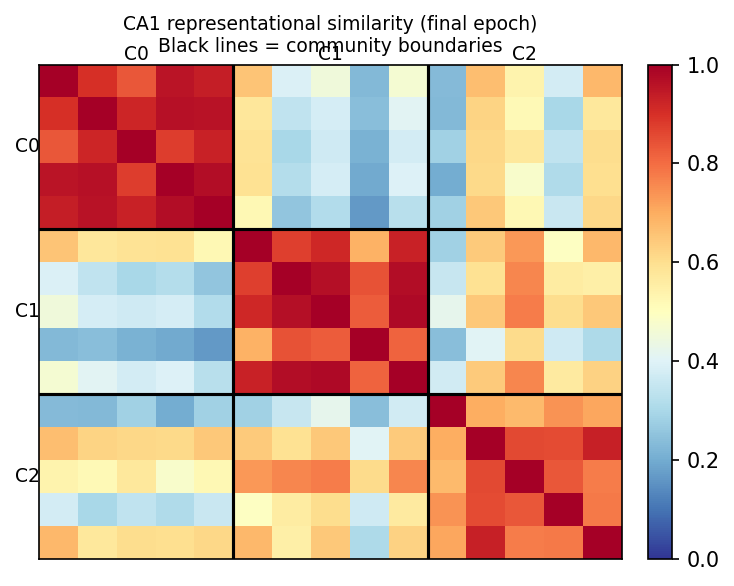
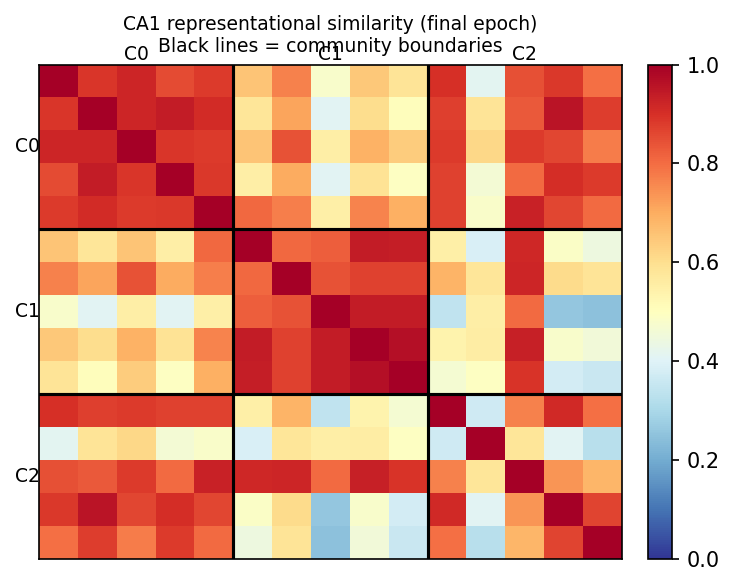
Fix L_ECin missing nxx1; clarify cell-phase comment
Apply F_nxx1 before kWTA in L_ECin.forward so that activity values
are bounded [0,1] consistent with all other settling layers.  Without
it, the big-loop back-projection (NET_SCALE=2.0) amplified active ECin
units to ~3.0, inflating W_ECin CHL updates ~3× and collapsing the
expected lr_TSP/lr_MSP = 8× ratio to ~2.7×.

Also rewrite cell-phase comment to clarify that cosine ≈ 0.25 at
initialisation is chance level, not a meaningful phase distinction.

diff --git a/src/layer.py b/src/layer.py
@@ -221,10 +221,13 @@ class L_ECin(nn.Module):
         else:
             net = clamp_pattern
 
-        # kWTA — absolute k; Schapiro (2017) §2.a.ii
+        # nxx1 then absolute kWTA — Schapiro (2017) §2.a.ii; O'Reilly & Munakata (2000)
+        # nxx1 bounds activity to [0,1]; without it the big-loop NET_SCALE would
+        # pass amplified raw net values through kWTA, inflating CHL updates ~3×.
+        activated = F_nxx1(net)
         k_from_bottom = self.n_units - self.k + 1
-        threshold = torch.kthvalue(net, k_from_bottom).values
-        new_act = net * (net >= threshold).float()
+        threshold = torch.kthvalue(activated, k_from_bottom).values
+        new_act = activated * (activated >= threshold).float()
 
         if self.use_euler:
             # Euler integration; O'Reilly & Munakata (2000) Ch. 2
